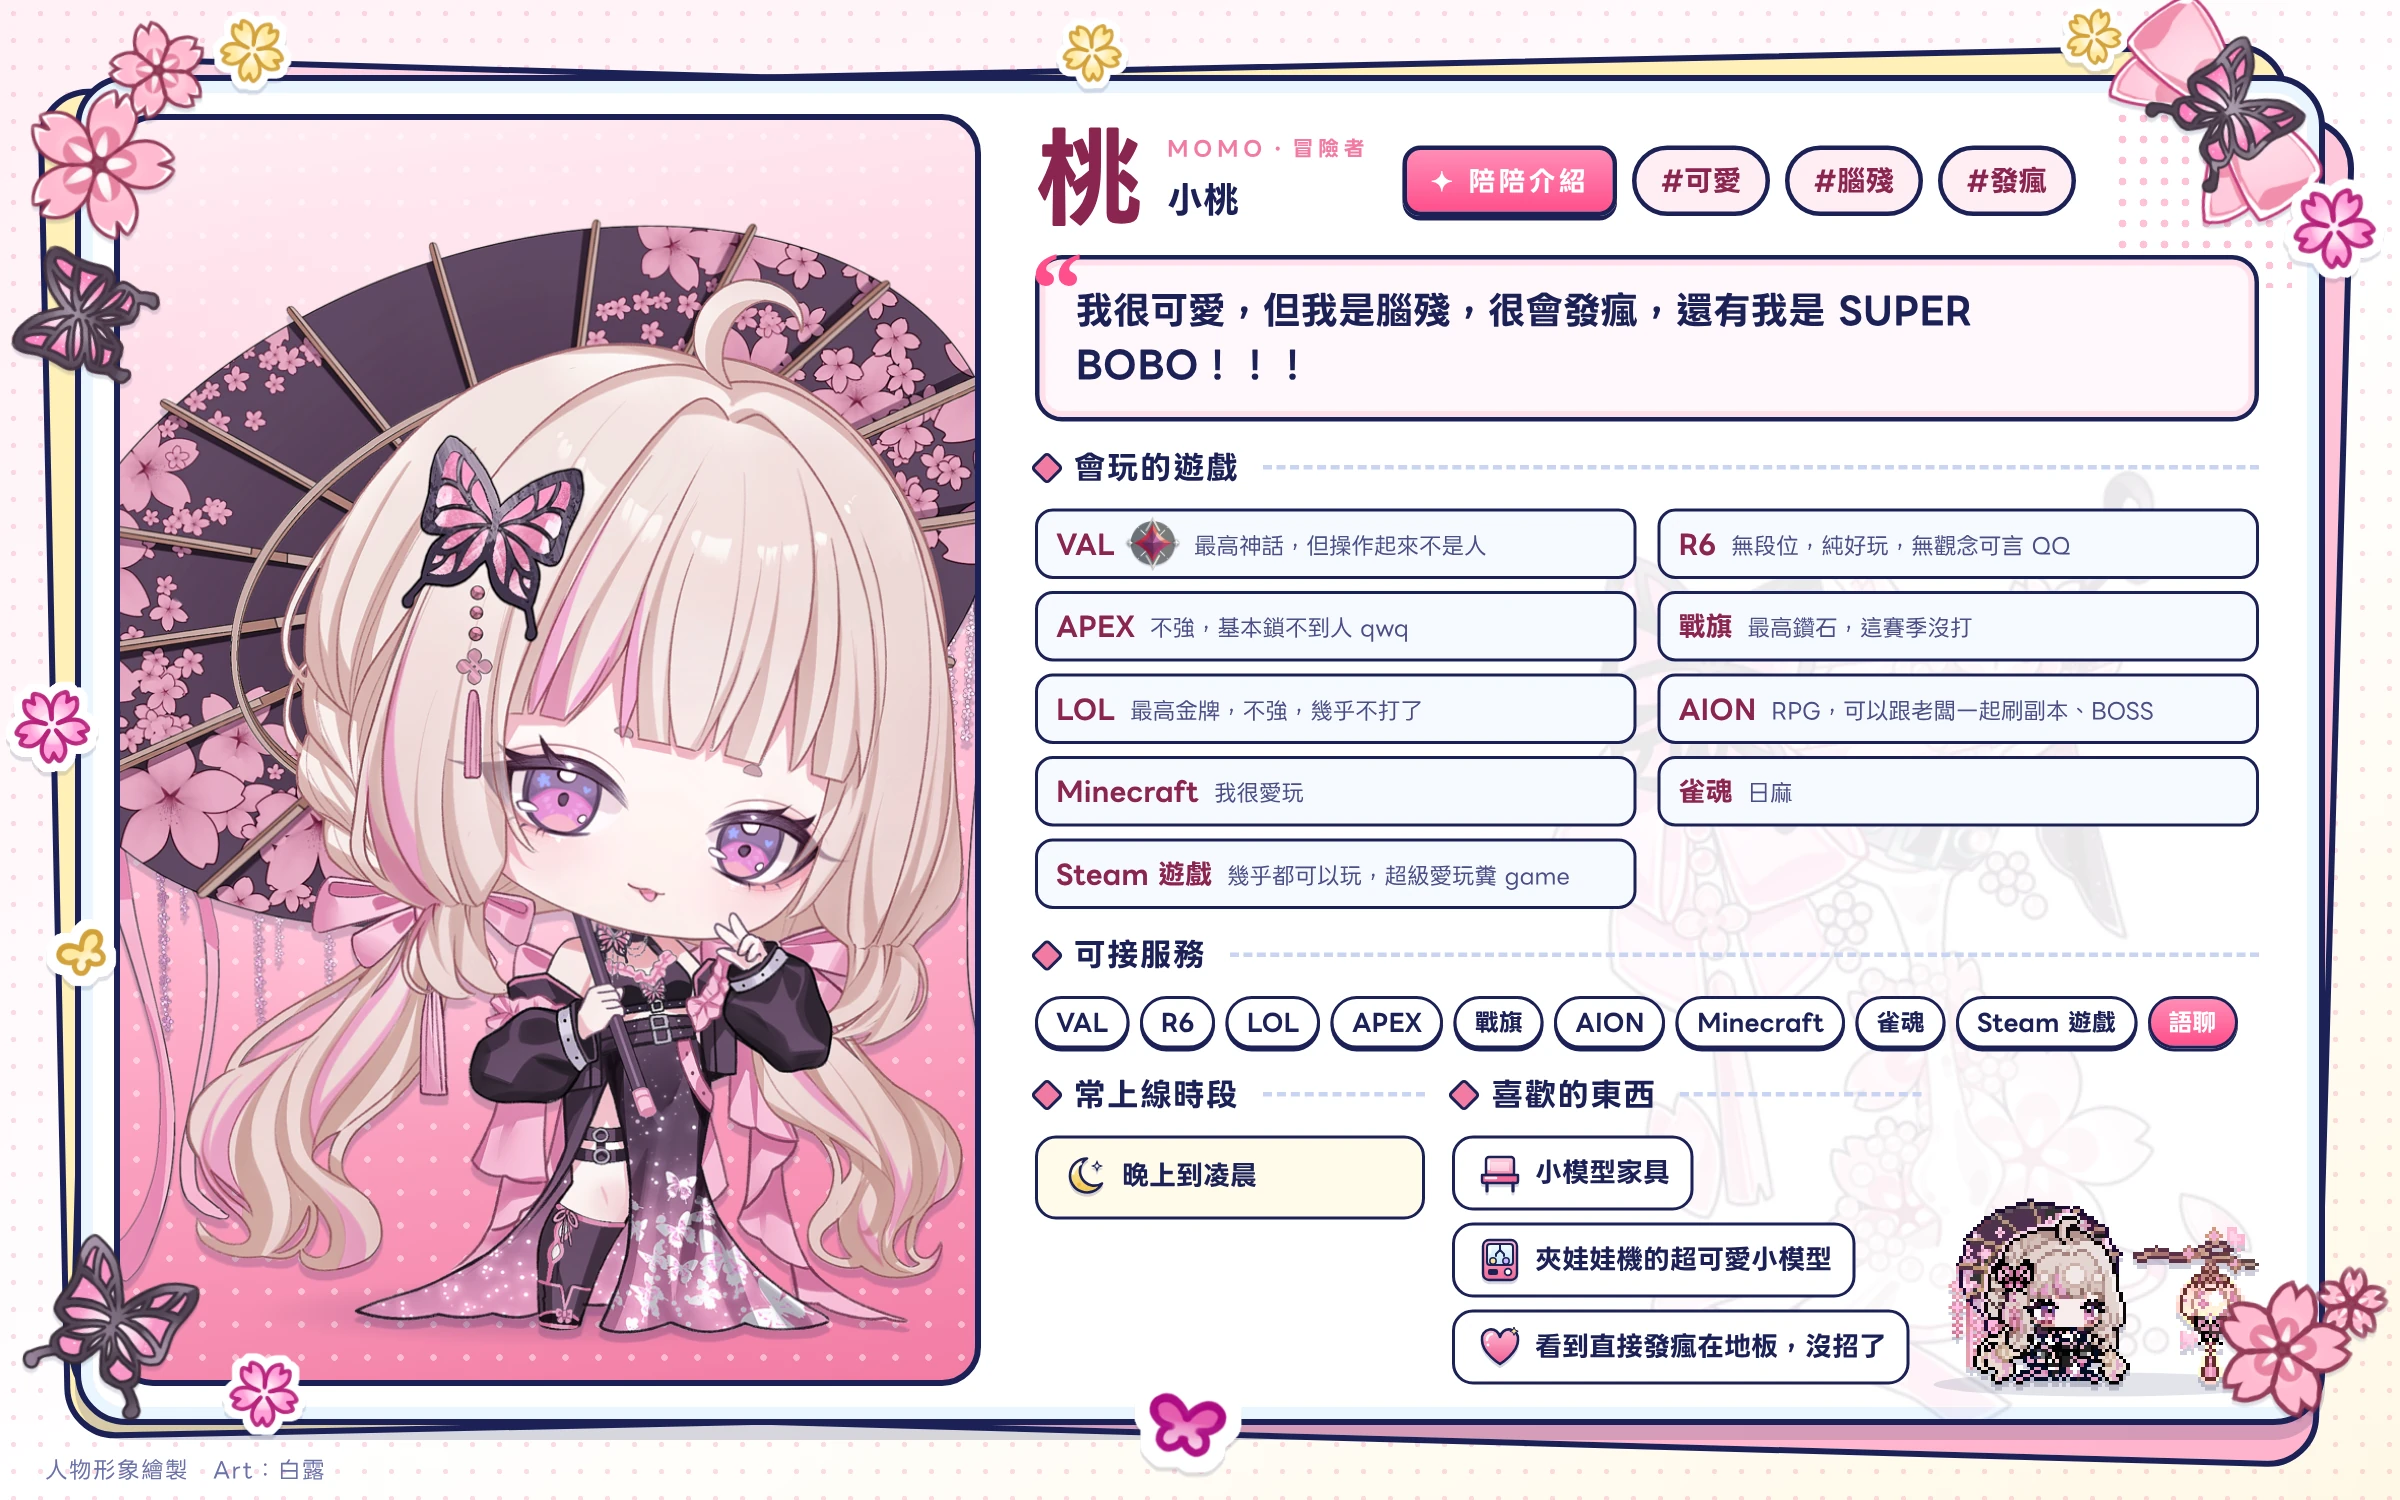
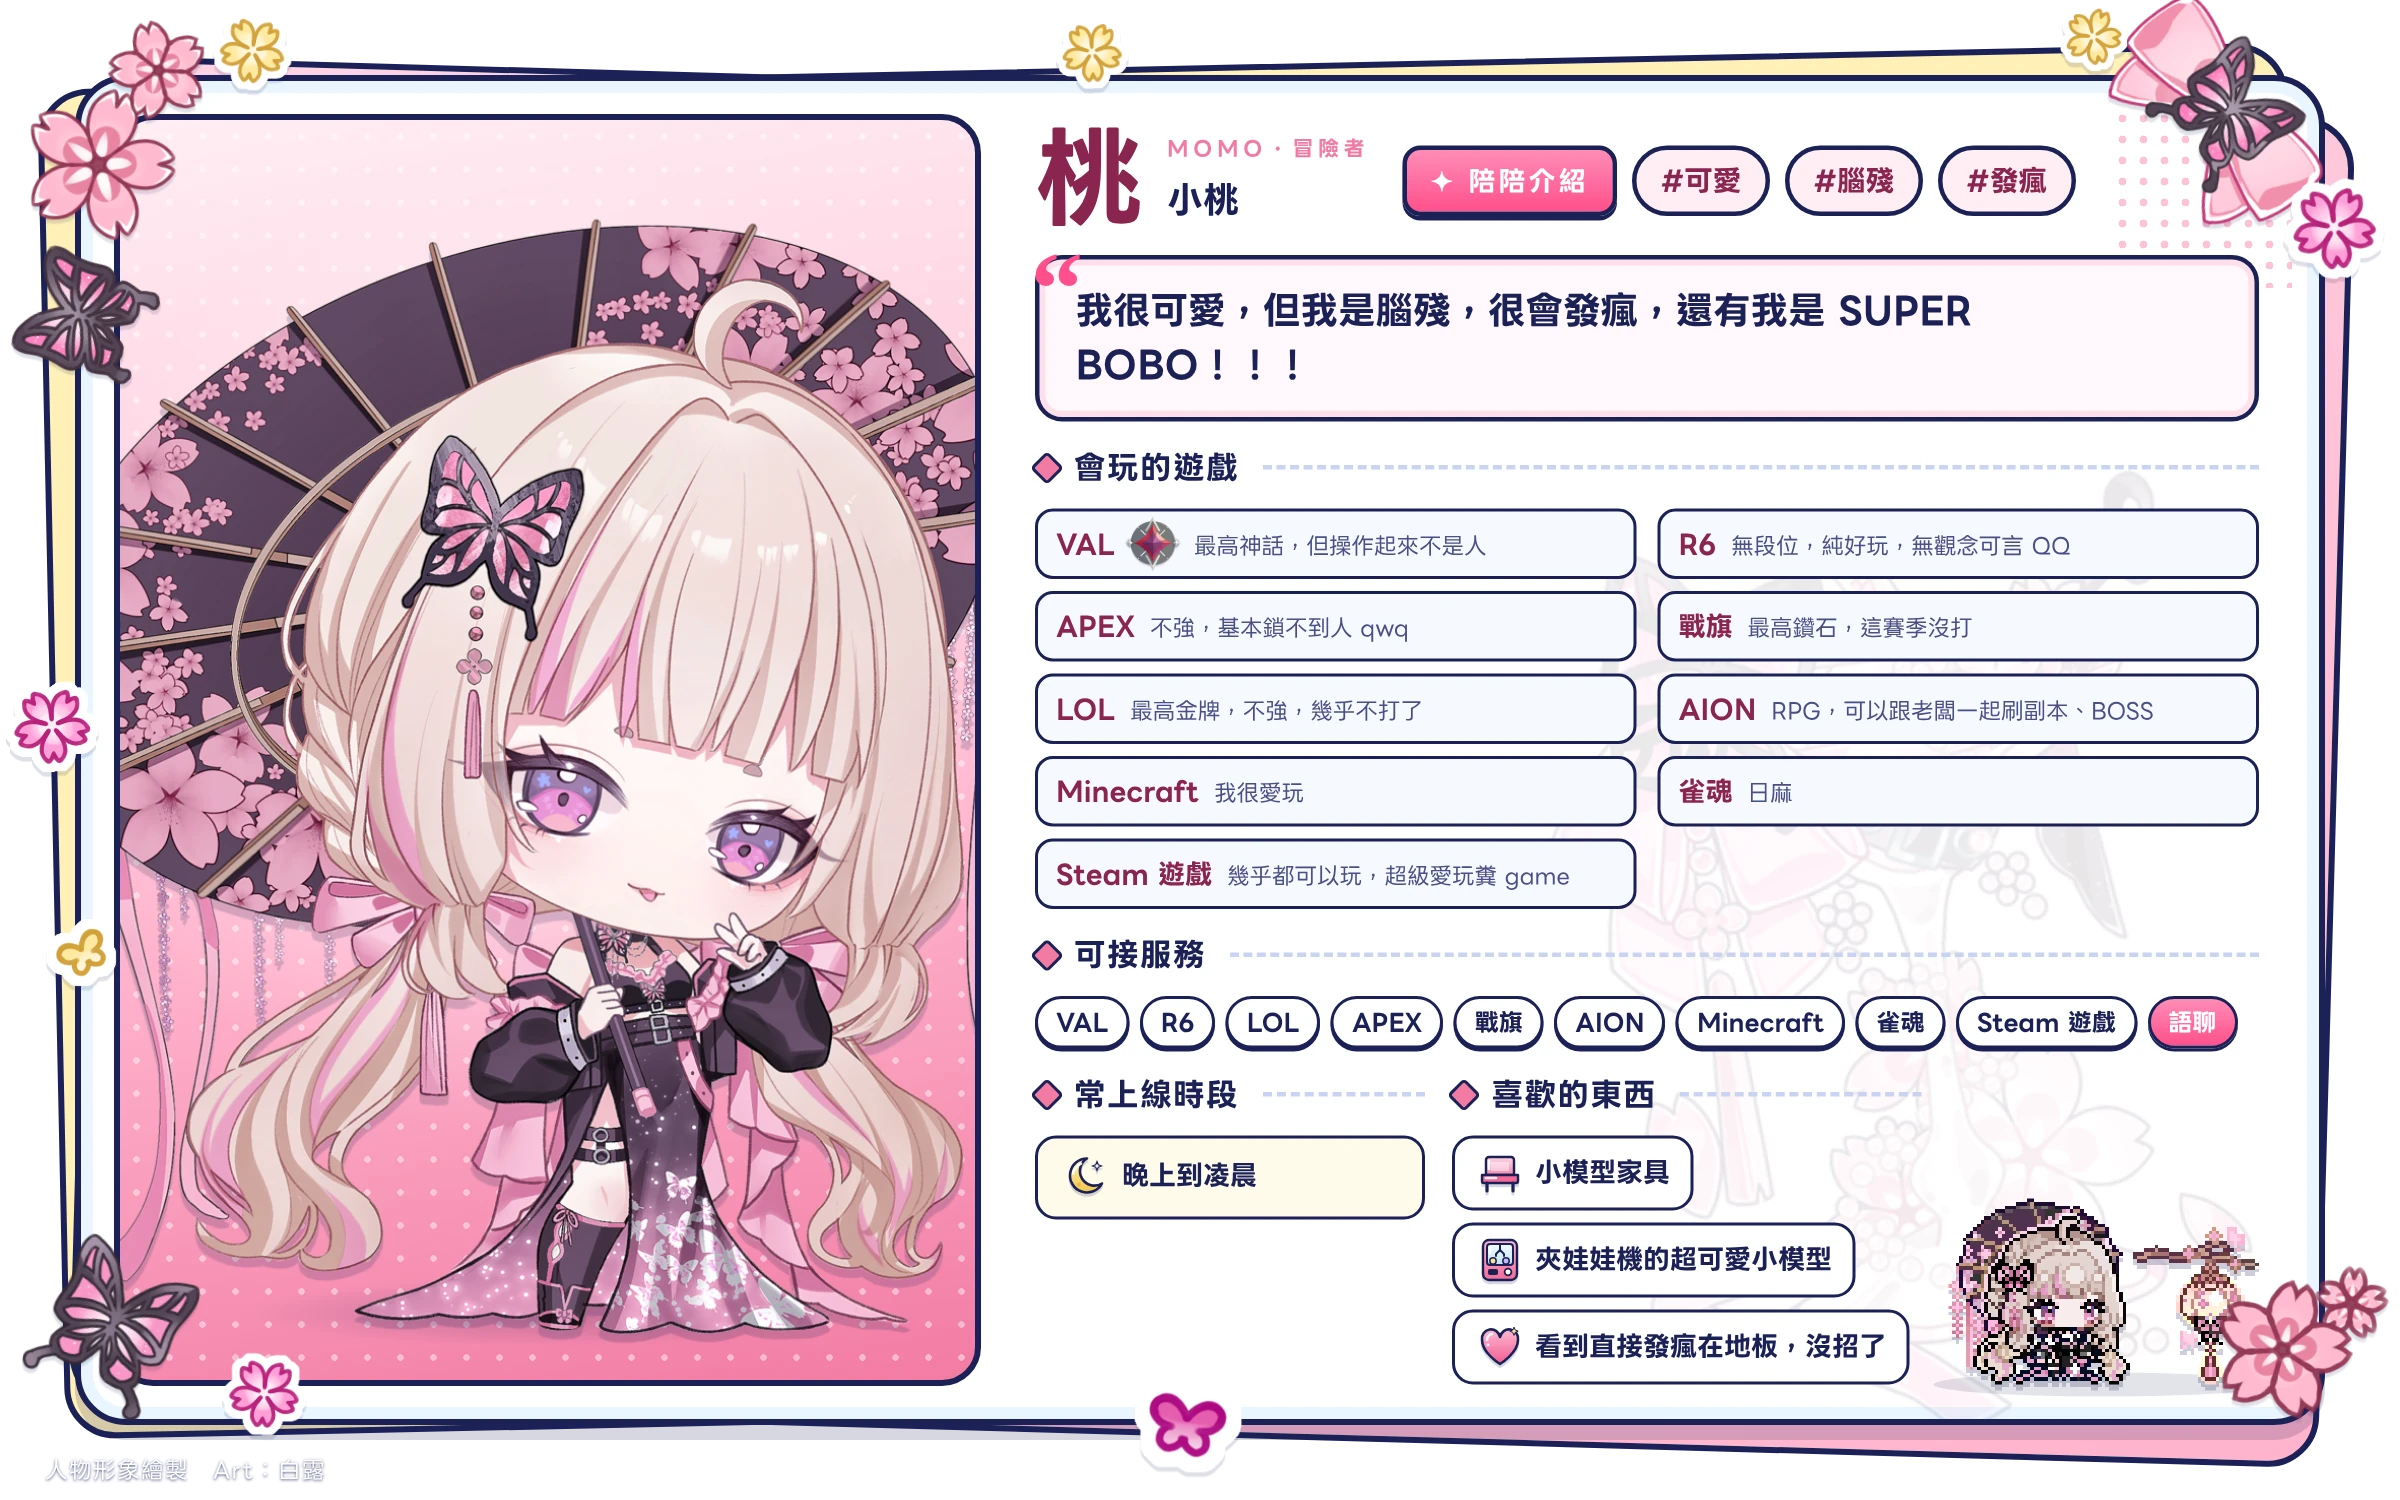
v478c 介紹卡外圍改透明，拿掉白邊
Claude-Session: https://claude.ai/code/session_01HQv5Q7EwFneSQ6y5KhFQ4v

Changed region(s): [[0.0312, 0.9507, 0.1562, 1.0], [0.9375, 0.9507, 1.0, 1.0]]

diff --git a/lobby-view.html b/lobby-view.html
@@ -7,5 +7,5 @@ html,body{margin:0;width:100%;height:100%;overflow:hidden;background:#352631}#ta
 </style></head>
 <body><iframe id="tavernView" title="小小酒館大廳" allow="microphone; autoplay; fullscreen" allowfullscreen></iframe>
 <script>
-(()=>{'use strict';if(!new URLSearchParams(location.search).has('preview')&&!matchMedia('(hover: hover) and (pointer: fine)').matches){location.replace('lobby.html'+location.search+location.hash);return;}const frame=document.getElementById('tavernView');const fit=()=>{const scale=Math.min(innerWidth/1280,innerHeight/720);frame.style.width=innerWidth/scale+'px';frame.style.height=innerHeight/scale+'px';frame.style.transform='scale('+scale+')';};fit();addEventListener('resize',fit);const source=new URL('lobby.html',location.href);source.search=location.search;source.hash=location.hash;source.searchParams.set('v','478b');frame.src=source.href;})();
+(()=>{'use strict';if(!new URLSearchParams(location.search).has('preview')&&!matchMedia('(hover: hover) and (pointer: fine)').matches){location.replace('lobby.html'+location.search+location.hash);return;}const frame=document.getElementById('tavernView');const fit=()=>{const scale=Math.min(innerWidth/1280,innerHeight/720);frame.style.width=innerWidth/scale+'px';frame.style.height=innerHeight/scale+'px';frame.style.transform='scale('+scale+')';};fit();addEventListener('resize',fit);const source=new URL('lobby.html',location.href);source.search=location.search;source.hash=location.hash;source.searchParams.set('v','478c');frame.src=source.href;})();
 </script></body></html>

diff --git a/lobby.html b/lobby.html
@@ -7958,7 +7958,7 @@ function shake(id){ const el=document.getElementById(id); if(!el) return; el.sty
 <script src="tavern-ui/outfit-fx.js?v=449"></script>
 <script src="tavern-ui/season-display.js?v=445"></script>
 <script src="lobby-ui/vip-outfit.js?v=450"></script>
-<link rel="stylesheet" href="lobby-ui/staff-card.css?v=478b"><script src="lobby-ui/staff-card.js?v=478"></script><script src="tavern-ui-bridge.js?v=478"></script>
+<link rel="stylesheet" href="lobby-ui/staff-card.css?v=478c"><script src="lobby-ui/staff-card.js?v=478c"></script><script src="tavern-ui-bridge.js?v=478"></script>
 <script>/* v468 版權測試時裝（露亞人魚、小莓、星夜漫遊裝）一律不畫：別人身上、手機首頁、闆卡、手帳都改用可用的基本部件（不改資料庫裡的穿搭） */
 (function(){if(!window.TTRetiredOutfits||typeof drawDollTo!=='function')return;const draw=drawDollTo;drawDollTo=function(cv,doll,...rest){let d=doll;try{d=TTRetiredOutfits.sanitize(doll,window.__shopCfg||{});}catch(e){}return draw.call(this,cv,d,...rest);};})();</script>
 <script src="lobby-ui/staff-book.js?v=416"></script>

diff --git a/lobby-ui/staff-card.js b/lobby-ui/staff-card.js
@@ -17,7 +17,7 @@
     if(!NAMES[asset])return false;
     if(!box)build();
     last=document.activeElement;
-    img.src='img/staff-cards-v478/'+asset+'.webp';img.alt=NAMES[asset]+'的介紹卡';
+    img.src='img/staff-cards-v478/'+asset+'.webp?v=478c';img.alt=NAMES[asset]+'的介紹卡';
     box.querySelector('.scm-tip').textContent='想找'+NAMES[asset]+'一起玩，到「我要點單」選冒險者就可以囉 ✧';
     box.hidden=false;requestAnimationFrame(()=>box.classList.add('on'));
     box.querySelector('.scm-x').focus({preventScroll:true});

diff --git a/CLAUDE.md b/CLAUDE.md
@@ -7,6 +7,7 @@
 商城（使用者：目前搭配用橋接方式，像跟主框連上下桿子架出去的框，主框左右拉近）：桌面版主框寬度少 144px（拿掉中間清單欄），iframe 往右多 186px 透明區；目前搭配改 position:fixed 放在主框右外側（150px 寬），上下兩根桿子（::after）接回主框；整組往左 93px 置中，iframe 內置中對話框同樣往左 93px。試穿框改為 position:relative（迴紋針與白星原本以整頁右緣定位）。手機版不變。theme-shop.css、theme-window.css 478，版本鏈 lobby→bridge 478→index 478→時裝間比較 478、lobby-view 478。
 驗證：本機隔離大廳 1685／1366／1024 桌面與 390 手機截圖（當季、頭髮、座椅、背包），點兩下三位冒險者各自開出正確卡片、Esc 關閉、點一下不開卡。
 v478b 使用者：卡片視窗不用再加框（卡片本身已有外框）。staff-card.css 拿掉白紙框，只留卡片圖（淡陰影）、右上關閉鈕（z-index 在圖片之上）與下方白字提示；lobby.html 載入 staff-card.css?v=478b。
+v478c 使用者：白邊還在（卡片圖本身外圍的點點底）。網站版卡片改成外圍透明（只留卡片、後方錯位紙頁與貼紙，繪師署名改白字），img/staff-cards-v478/*.webp?v=478c；staff-card js/css、lobby-view 改 478c。Discord 版圖片不變。
 
 ## v477 冒險者手札夜間模式字太深
 使用者：冒險者說名字與很多字在夜間模式太黑，改淺紫色。原因：v412 整站主題只套白天（body:not(.dark)），之後新增的卡片、說明、名字等寫死深藍字，夜間深色底上看不清。新增 lobby-ui/partner-dark-fix.js（partner.html 最後載入）：只在 body.dark 時，找出深色底（含漸層第一色）上的深色文字（亮度皆偏低），改成淺紫 #DCD0FF；畫面變動時重新檢查（120ms 合併），切回白天還原原本的顏色（保留原本行內顏色與優先級）。淺色底（例如黃色提醒框）上的深字不動。
